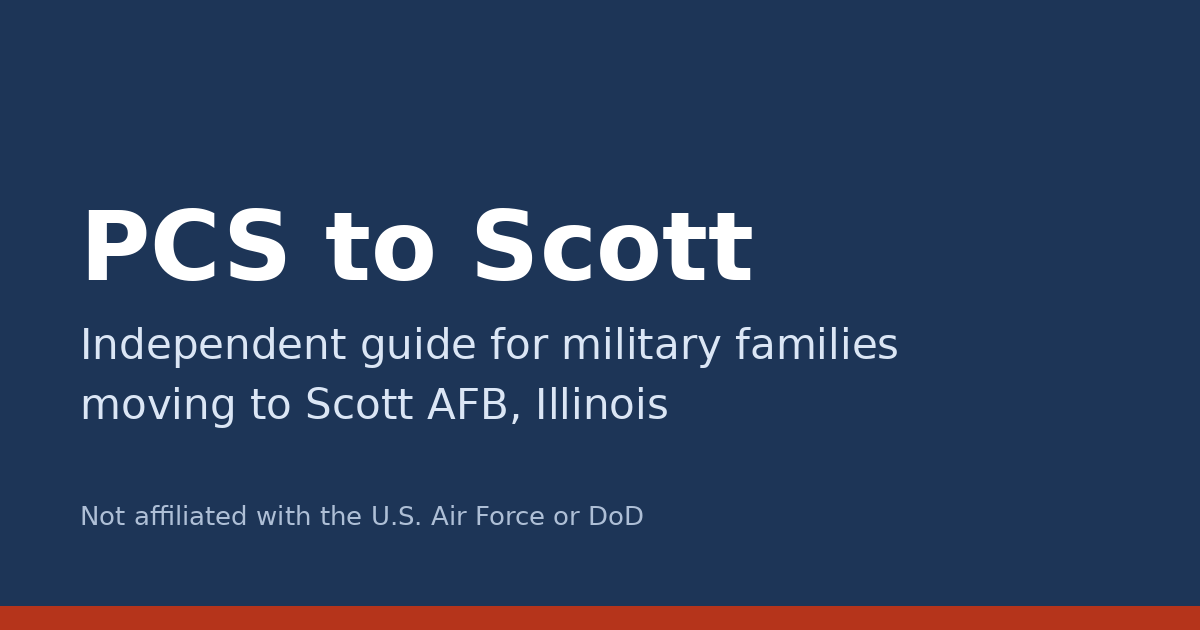
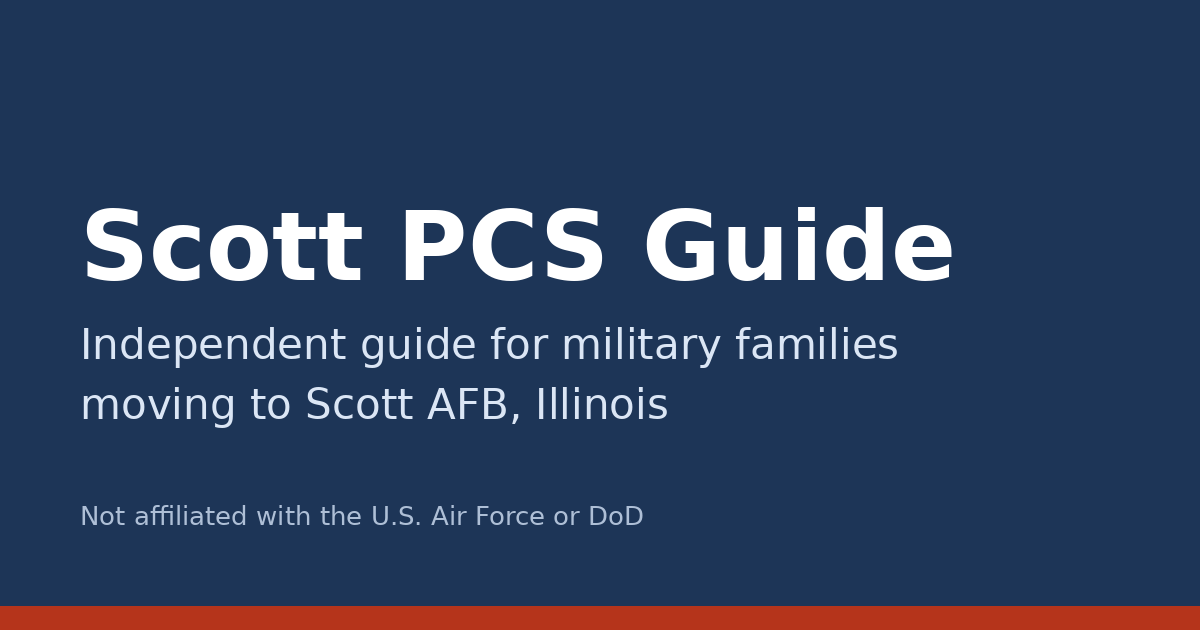
Rename site to Scott PCS Guide (/scottpcsguide/)

Changed region(s): [[0.0617, 0.3317, 0.8017, 0.4524]]

diff --git a/src/_data/site.js b/src/_data/site.js
@@ -1,11 +1,11 @@
 // Site-wide settings. SITE_URL must be the full public base URL INCLUDING any
 // GitHub Pages path prefix, with no trailing slash, e.g.
-//   https://adamheise-stack.github.io/pcstoscott   (default, live)
-//   https://pcstoscott.pages.dev                   (if moved to Cloudflare Pages)
+//   https://adamheise-stack.github.io/scottpcsguide   (default, live)
+//   https://scottpcsguide.pages.dev                   (if moved to Cloudflare Pages)
 export default {
-  name: "PCS to Scott",
+  name: "Scott PCS Guide",
   tagline: "A neighborly, independent guide for military families moving to Scott AFB, Illinois",
-  url: (process.env.SITE_URL || "https://adamheise-stack.github.io/pcstoscott").replace(/\/$/, ""),
+  url: (process.env.SITE_URL || "https://adamheise-stack.github.io/scottpcsguide").replace(/\/$/, ""),
   locale: "en_US",
   owner: "Adam",
   ogImage: "/assets/img/og-default.png",

diff --git a/eleventy.config.js b/eleventy.config.js
@@ -50,8 +50,8 @@ export default function (eleventyConfig) {
     dir: { input: "src", output: "_site", includes: "_includes", data: "_data" },
     markdownTemplateEngine: "njk",
     htmlTemplateEngine: "njk",
-    // GitHub Pages project site lives at /pcstoscott/. Override with PATH_PREFIX=/ for a
+    // GitHub Pages project site lives at /scottpcsguide/. Override with PATH_PREFIX=/ for a
     // custom domain or Cloudflare Pages (CLI --pathprefix also overrides).
-    pathPrefix: process.env.PATH_PREFIX || "/pcstoscott/",
+    pathPrefix: process.env.PATH_PREFIX || "/scottpcsguide/",
   };
 }

diff --git a/src/assets/css/style.css b/src/assets/css/style.css
@@ -1,4 +1,4 @@
-/* PCS to Scott: mobile-first, no frameworks, no web fonts. */
+/* Scott PCS Guide: mobile-first, no frameworks, no web fonts. */
 :root{
   --navy:#1d3557; --navy-2:#274472; --sky:#e8f0fa; --ink:#1b1f24; --muted:#555f6b;
   --line:#d8dee6; --bg:#ffffff; --accent:#b5341b; --sponsor:#fff8e6; --sponsor-line:#e0b84f;

diff --git a/src/about.md b/src/about.md
@@ -1,13 +1,13 @@
 ---
 layout: layouts/page.njk
-title: "About PCS to Scott"
+title: "About Scott PCS Guide"
 navTitle: "About"
-description: "Who runs PCS to Scott, a free and independent guide for Scott AFB military families, how we research and date our facts, and how labeled sponsorship works."
-lede: "PCS to Scott is a free, independent guide for military families moving to or living at Scott Air Force Base, written in a helpful-neighbor voice."
+description: "Who runs Scott PCS Guide, a free and independent guide for Scott AFB military families, how we research and date our facts, and how labeled sponsorship works."
+lede: "Scott PCS Guide is a free, independent guide for military families moving to or living at Scott Air Force Base, written in a helpful-neighbor voice."
 ---
 ## Who runs this site
 
-PCS to Scott is run by a local military family who's been through the move. We remember how many tabs it took to figure out housing, schools, and that first week, so we're putting the answers in one friendly place. It's an independent project. It is **not** an official Air Force, Department of Defense, or Scott AFB website, and nobody here speaks for the base.
+Scott PCS Guide is run by a local military family who's been through the move. We remember how many tabs it took to figure out housing, schools, and that first week, so we're putting the answers in one friendly place. It's an independent project. It is **not** an official Air Force, Department of Defense, or Scott AFB website, and nobody here speaks for the base.
 
 ## How we research
 

diff --git a/src/disclaimer.md b/src/disclaimer.md
@@ -1,13 +1,13 @@
 ---
 layout: layouts/page.njk
 title: "Disclaimer"
-description: "PCS to Scott is independent and not affiliated with or endorsed by the U.S. Air Force, DoD, or Scott AFB. Info may change, so verify with official sources."
+description: "Scott PCS Guide is independent and not affiliated with or endorsed by the U.S. Air Force, DoD, or Scott AFB. Info may change, so verify with official sources."
 lede: "Please read this before relying on anything on this site."
 hideSidebar: true
 ---
 ## Independent site
 
-PCS to Scott is an independent website. It is **not affiliated with, endorsed by, or sponsored by the U.S. Air Force, the Department of Defense, Scott Air Force Base, or any government agency.** Any mention of official organizations is for informational purposes only.
+Scott PCS Guide is an independent website. It is **not affiliated with, endorsed by, or sponsored by the U.S. Air Force, the Department of Defense, Scott Air Force Base, or any government agency.** Any mention of official organizations is for informational purposes only.
 
 ## Information may change
 

diff --git a/templates/sponsored-article.md b/templates/sponsored-article.md
@@ -8,7 +8,7 @@
 # "military-approved" or use DoD/USAF insignia. Adam approves before publishing.
 layout: layouts/guide.njk
 title: "VA Loan Basics for Scott AFB Homebuyers"        # H1 + og:title
-seoTitle: "VA Loan Basics Near Scott AFB | PCS to Scott" # <title>, under 60 chars
+seoTitle: "VA Loan Basics Near Scott AFB | Scott PCS Guide" # <title>, under 60 chars
 description: "140-155 characters with the main answer in it."
 keyword: "va loan scott afb"
 section: housing            # housing | schools | bah | childcare | moving | local-services | things-to-do

diff --git a/src/privacy.md b/src/privacy.md
@@ -1,7 +1,7 @@
 ---
 layout: layouts/page.njk
 title: "Privacy"
-description: "PCS to Scott privacy notice: no accounts, no cookies, no ad trackers. We may use cookie-free Cloudflare Web Analytics for aggregate visit counts only."
+description: "Scott PCS Guide privacy notice: no accounts, no cookies, no ad trackers. We may use cookie-free Cloudflare Web Analytics for aggregate visit counts only."
 lede: "Short version: we don't collect personal information."
 hideSidebar: true
 ---

diff --git a/src/guides/scott-afb-pcs-first-week-guide.md b/src/guides/scott-afb-pcs-first-week-guide.md
@@ -1,7 +1,7 @@
 ---
 layout: layouts/guide.njk
 title: "PCS to Scott AFB: Newcomers Checklist and First-Week Guide (2026)"
-seoTitle: "PCS to Scott AFB: First-Week Checklist | PCS to Scott"
+seoTitle: "PCS to Scott AFB: First-Week Checklist | Scott PCS Guide"
 description: "PCS to Scott AFB checklist for 2026: what to do 60, 30, and 7 days out and in week one, from lodging and housing to schools and finance. Official links."
 keyword: "PCS to Scott AFB"
 section: moving

diff --git a/src/guides/scott-afb-bah-rates-2026.md b/src/guides/scott-afb-bah-rates-2026.md
@@ -1,7 +1,7 @@
 ---
 layout: layouts/guide.njk
 title: "Scott AFB BAH Rates 2026: Full Table and What It Covers Locally"
-seoTitle: "Scott AFB BAH Rates 2026: Full Table | PCS to Scott"
+seoTitle: "Scott AFB BAH Rates 2026: Full Table | Scott PCS Guide"
 description: "2026 BAH at Scott AFB (MHA IL093): E-5 with dependents gets $1,542/mo, O-3 $2,208. Full table for every grade, plus how it compares to local rents."
 keyword: "Scott AFB BAH rates 2026"
 section: bah

diff --git a/src/404.md b/src/404.md
@@ -2,7 +2,7 @@
 layout: layouts/page.njk
 title: "Page not found"
 permalink: /404.html
-description: "That page doesn't exist on PCS to Scott. Try our first-week PCS checklist, 2026 BAH guide, or the topic pages for Scott AFB families."
+description: "That page doesn't exist on Scott PCS Guide. Try our first-week PCS checklist, 2026 BAH guide, or the topic pages for Scott AFB families."
 noindex: true
 eleventyExcludeFromCollections: true
 noBreadcrumbs: true
